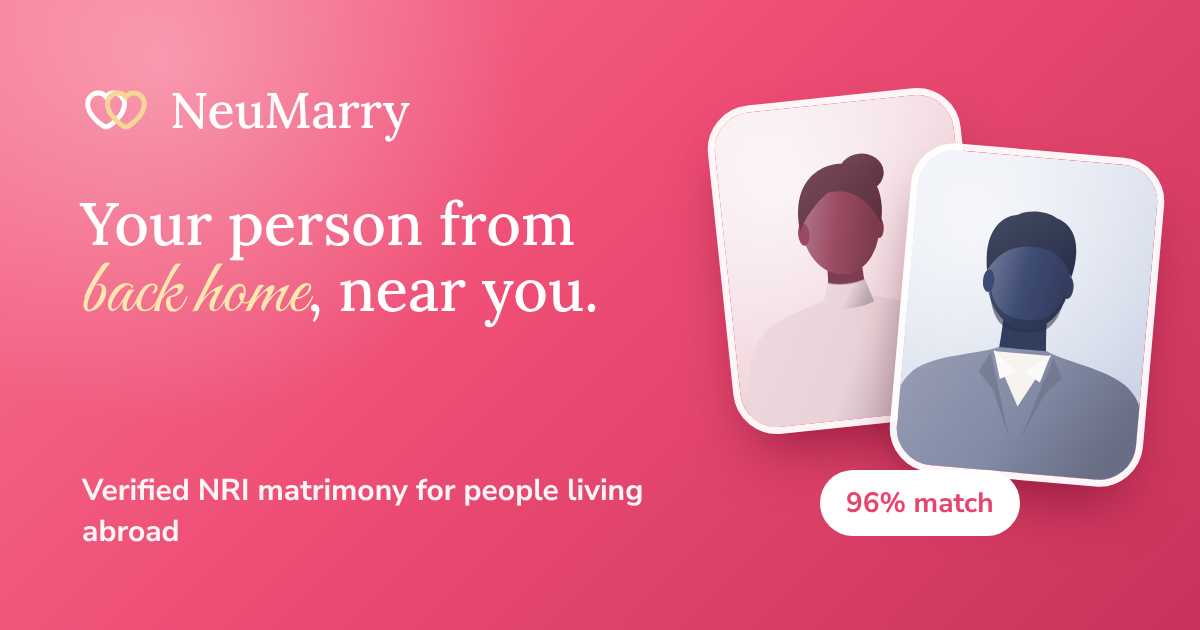
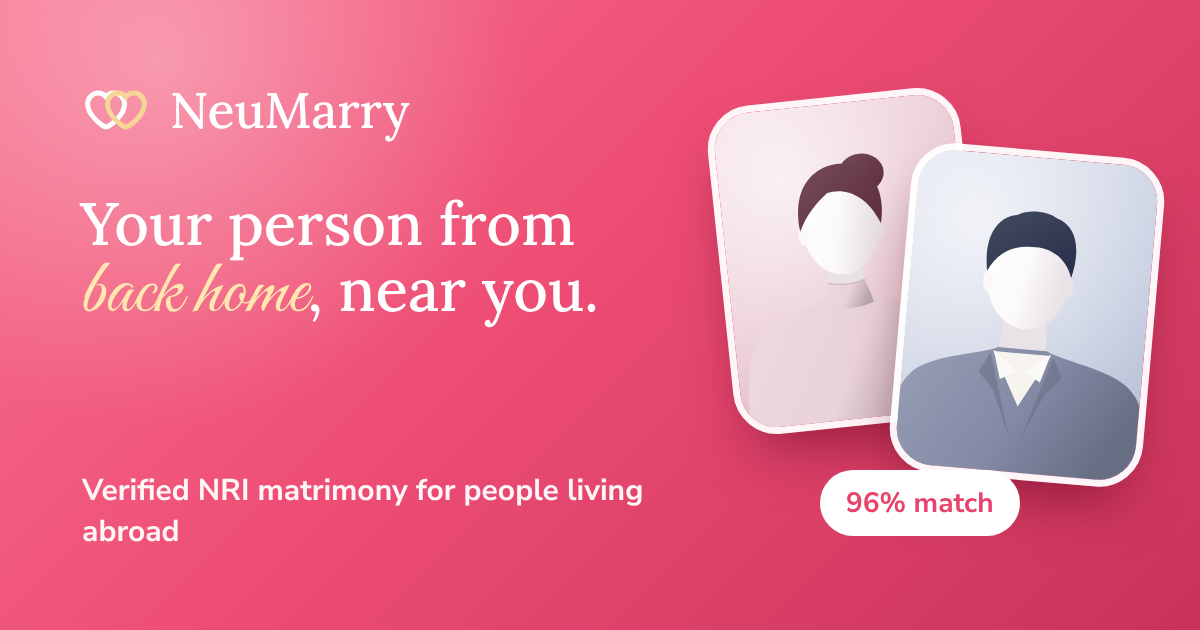
Same neutral portraits on the website, social image and web app; buttons first on the app welcome
Claude-Session: https://claude.ai/code/session_01SXngSMA9iuWztjfjkepz4k

Changed region(s): [[0.8017, 0.3921, 0.8942, 0.573], [0.6475, 0.3016, 0.74, 0.4524]]

diff --git a/app/js/app.js b/app/js/app.js
@@ -134,7 +134,7 @@ const QS=[
 const API=window.RM_API, CFG=window.RM_CONFIG;
 /* Editorial portraits: tonal head-and-shoulders silhouettes used as stand-ins where no
    member photo exists (welcome screen, store images). No faces, skin tones or regional
-   dress, so they read as adults from anywhere. portrait(seed, g, {tone}) where tone picks one of P_TONES. */
+   dress (every head is the same soft white), so they read as adults from anywhere. portrait(seed, g, {tone}) where tone picks one of P_TONES. */
 function rngP(seed){let a=seed>>>0;return function(){a|=0;a=a+0x6D2B79F5|0;let t=Math.imul(a^a>>>15,1|a);t=t+Math.imul(t^t>>>7,61|t)^t;return((t^t>>>14)>>>0)/4294967296}}
 function mixHex(a,b,t){const p=h=>[1,3,5].map(i=>parseInt(h.slice(i,i+2),16));const A=p(a),B=p(b);return '#'+A.map((v,i)=>Math.round(v+(B[i]-v)*t).toString(16).padStart(2,'0')).join('')}
 /* Each tone: background light, background deep, figure, clothing */
@@ -151,15 +151,18 @@ function portrait(seed,g,o){
   o=o||{};const key=seed+g+(o.tone!=null?'t'+o.tone:'');if(PCACHE.has(key))return PCACHE.get(key);
   const r=rngP(seed*9301+49297),pick=a=>a[Math.floor(r()*a.length)],F=g==='F';
   const T=P_TONES[o.tone!=null?o.tone:pick([0,0,1,1,5,5,2,3,4])],id='p'+String(key).replace(/\W/g,'');
-  const fig=T[2],figL=mixHex(fig,'#ffffff',.3),figD=mixHex(fig,'#000000',.18),hair=mixHex(fig,'#000000',.38);
+  /* Head, neck and ears are the same soft white for every portrait, man or woman, so no
+     figure ever reads as a skin colour. The tone only colours hair, clothes and backdrop. */
+  const fig=T[2],head='#FBF9FA',headL='#FFFFFF',headD='#E9E2E6',hair=mixHex(fig,'#000000',.38);
+  const figL=headL,figD=headD;
   const cloth=pick([T[3],mixHex(fig,'#ffffff',.35),mixHex(fig,'#000000',.1),'#F4F1EC']),clothL=mixHex(cloth,'#ffffff',.18),clothD=mixHex(cloth,'#000000',.2);
   const lean=Math.round((r()-.5)*6);           // slight head turn
   const hx=100+lean, hy=84, hrx=F?24:25.5, hry=F?31:32;
   const K=1.13, TR=`transform="translate(${hx} ${hy}) scale(${K}) translate(${-hx} ${-hy})"`;
   let s=`<svg viewBox="0 0 200 220" preserveAspectRatio="xMidYMid slice" xmlns="http://www.w3.org/2000/svg" aria-hidden="true"><defs>`
-   +`<linearGradient id="${id}b" x1="0" y1="0" x2=".8" y2="1"><stop offset="0" stop-color="${T[0]}"/><stop offset="1" stop-color="${T[1]}"/></linearGradient>`
+   +`<linearGradient id="${id}b" x1="0" y1="0" x2=".8" y2="1"><stop offset="0" stop-color="${mixHex(T[0],T[1],.45)}"/><stop offset="1" stop-color="${mixHex(T[1],fig,.12)}"/></linearGradient>`
    +`<radialGradient id="${id}g" cx=".3" cy=".22" r=".75"><stop offset="0" stop-color="#ffffff" stop-opacity=".7"/><stop offset="1" stop-color="#ffffff" stop-opacity="0"/></radialGradient>`
-   +`<linearGradient id="${id}f" x1="0" y1="0" x2="1" y2=".25"><stop offset="0" stop-color="${figL}"/><stop offset=".55" stop-color="${fig}"/><stop offset="1" stop-color="${figD}"/></linearGradient>`
+   +`<linearGradient id="${id}f" x1="0" y1="0" x2="1" y2=".25"><stop offset="0" stop-color="${figL}"/><stop offset=".55" stop-color="${head}"/><stop offset="1" stop-color="${figD}"/></linearGradient>`
    +`<linearGradient id="${id}c" x1="0" y1="0" x2="1" y2=".3"><stop offset="0" stop-color="${clothL}"/><stop offset=".6" stop-color="${cloth}"/><stop offset="1" stop-color="${clothD}"/></linearGradient>`
    +`<linearGradient id="${id}h" x1="0" y1="0" x2="1" y2="1"><stop offset="0" stop-color="${mixHex(hair,'#ffffff',.14)}"/><stop offset="1" stop-color="${hair}"/></linearGradient>`
    +`</defs>`;
@@ -195,7 +198,7 @@ function portrait(seed,g,o){
   s+=`<g ${TR}>`;
   s+=`<ellipse cx="${hx}" cy="${hy}" rx="${hrx}" ry="${hry}" fill="url(#${id}f)"/>`;
   // ears
-  s+=`<ellipse cx="${hx-hrx+1}" cy="${hy+4}" rx="3.5" ry="7" fill="${fig}"/><ellipse cx="${hx+hrx-1}" cy="${hy+4}" rx="3.5" ry="7" fill="${figD}"/>`;
+  s+=`<ellipse cx="${hx-hrx+1}" cy="${hy+4}" rx="3.5" ry="7" fill="${head}"/><ellipse cx="${hx+hrx-1}" cy="${hy+4}" rx="3.5" ry="7" fill="${figD}"/>`;
   // front hair
   if(F){
     if(hairStyle==='bob')s+=`<path d="M${hx-29} ${hy+30}C${hx-36} ${hy-14} ${hx-20} ${hy-40} ${hx+2} ${hy-38}C${hx+26} ${hy-38} ${hx+38} ${hy-14} ${hx+29} ${hy+30}C${hx+24} ${hy+12} ${hx+22} ${hy-6} ${hx+12} ${hy-16}C${hx-2} ${hy-6} ${hx-16} ${hy-8} ${hx-22} ${hy-4}C${hx-24} ${hy+8} ${hx-24} ${hy+18} ${hx-29} ${hy+30}z" fill="url(#${id}h)"/>`;
@@ -206,7 +209,7 @@ function portrait(seed,g,o){
     if(hairStyle==='side')s+=`<path d="M${hx-26} ${hy}C${hx-30} ${hy-32} ${hx-10} ${hy-38} ${hx+4} ${hy-37}C${hx+24} ${hy-36} ${hx+31} ${hy-22} ${hx+26} ${hy}C${hx+22} ${hy-12} ${hx+16} ${hy-18} ${hx+6} ${hy-22}C${hx-6} ${hy-16} ${hx-18} ${hy-14} ${hx-26} ${hy}z" fill="url(#${id}h)"/><path d="M${hx-8} ${hy-34}Q${hx-2} ${hy-26} ${hx-4} ${hy-21}" stroke="${mixHex(hair,'#fff',.2)}" stroke-width="1.2" fill="none"/>`;
     if(hairStyle==='textured')s+=`<path d="M${hx-26} ${hy-2}C${hx-30} ${hy-24} ${hx-22} ${hy-36} ${hx-10} ${hy-38}C${hx-4} ${hy-42} ${hx+8} ${hy-42} ${hx+14} ${hy-38}C${hx+28} ${hy-34} ${hx+30} ${hy-18} ${hx+26} ${hy-2}C${hx+22} ${hy-14} ${hx+12} ${hy-20} ${hx} ${hy-19}C${hx-12} ${hy-19} ${hx-21} ${hy-13} ${hx-26} ${hy-2}z" fill="url(#${id}h)"/>`;
     if(hairStyle==='swept')s+=`<path d="M${hx-26} ${hy}C${hx-30} ${hy-30} ${hx-14} ${hy-42} ${hx+6} ${hy-41}C${hx+26} ${hy-40} ${hx+32} ${hy-22} ${hx+26} ${hy}C${hx+22} ${hy-16} ${hx+12} ${hy-24} ${hx} ${hy-23}C${hx-12} ${hy-22} ${hx-20} ${hy-14} ${hx-26} ${hy}z" fill="url(#${id}h)"/>`;
-    if(r()<.4)s+=`<path d="M${hx-hrx+2} ${hy+6}C${hx-hrx+4} ${hy+30} ${hx-12} ${hy+hry+2} ${hx} ${hy+hry+2}C${hx+12} ${hy+hry+2} ${hx+hrx-4} ${hy+30} ${hx+hrx-2} ${hy+6}C${hx+hrx-6} ${hy+22} ${hx+12} ${hy+hry-6} ${hx} ${hy+hry-6}C${hx-12} ${hy+hry-6} ${hx-hrx+6} ${hy+22} ${hx-hrx+2} ${hy+6}z" fill="${hair}" opacity=".55"/>`;
+    if(r()<.4)r(); /* (no beard shading: it read as a darker face) keeps the same picks as before */
   }
   s+=`</g></svg>`;
   PCACHE.set(key,s);return s;
@@ -622,15 +625,16 @@ function renderWelcome(){
     </div>
     <h1>Your person from <em>back home</em> might live ten minutes away.</h1>
     <p class="lede">For everyone living away from the country they grew up in. Meet verified people who share your roots and your mindset, in your city, with your family by your side.</p>
+    <div class="cta"><button class="btn primary block" data-a="start">Create my profile</button>
+      <button class="btn ghost block" data-a="login">I already have an account</button></div>
+    <p class="note">By continuing you agree to our <button class="link" data-a="legal" data-k="terms">Terms</button> and <button class="link" data-a="legal" data-k="privacy">Privacy Policy</button>. 18+ only.</p>
     <ul class="usp">
       <li><span class="pi">${ic('users')}</span><span><b>Family Mixers</b><span>Hosted evenings in your city, dinner included. Bring your parents, meet in person.</span></span></li>
       <li><span class="pi">${ic('pin')}</span><span><b>Roots, city and mindset</b><span>Matched on where you come from, where you live and how you think.</span></span></li>
       <li><span class="pi">${ic('shield')}</span><span><b>Only real people</b><span>Every member is checked with a government ID and a live selfie.</span></span></li>
       <li><span class="pi">${ic('lock')}</span><span><b>Private by default</b><span>Photos stay hidden until you both say yes. Your number is never shown.</span></span></li>
     </ul>
-    <div class="cta"><button class="btn primary block" data-a="start">Create my profile</button>
-      <button class="btn ghost block" data-a="login">I already have an account</button></div>
-    <p class="note">By continuing you agree to our <button class="link" data-a="legal" data-k="terms">Terms</button> and <button class="link" data-a="legal" data-k="privacy">Privacy Policy</button>. 18+ only.</p>
+
   </div></div>`;
 }
 

diff --git a/index.html b/index.html
@@ -451,7 +451,7 @@ dialog form.card{border:0;box-shadow:none;background:transparent;padding:16px 22
 <script>
 /* Editorial portraits: tonal head-and-shoulders silhouettes used as stand-ins where no
    member photo exists (welcome screen, store images). No faces, skin tones or regional
-   dress, so they read as adults from anywhere. portrait(seed, g, {tone}) where tone picks one of P_TONES. */
+   dress (every head is the same soft white), so they read as adults from anywhere. portrait(seed, g, {tone}) where tone picks one of P_TONES. */
 function rngP(seed){let a=seed>>>0;return function(){a|=0;a=a+0x6D2B79F5|0;let t=Math.imul(a^a>>>15,1|a);t=t+Math.imul(t^t>>>7,61|t)^t;return((t^t>>>14)>>>0)/4294967296}}
 function mixHex(a,b,t){const p=h=>[1,3,5].map(i=>parseInt(h.slice(i,i+2),16));const A=p(a),B=p(b);return '#'+A.map((v,i)=>Math.round(v+(B[i]-v)*t).toString(16).padStart(2,'0')).join('')}
 /* Each tone: background light, background deep, figure, clothing */
@@ -468,15 +468,18 @@ function portrait(seed,g,o){
   o=o||{};const key=seed+g+(o.tone!=null?'t'+o.tone:'');if(PCACHE.has(key))return PCACHE.get(key);
   const r=rngP(seed*9301+49297),pick=a=>a[Math.floor(r()*a.length)],F=g==='F';
   const T=P_TONES[o.tone!=null?o.tone:pick([0,0,1,1,5,5,2,3,4])],id='p'+String(key).replace(/\W/g,'');
-  const fig=T[2],figL=mixHex(fig,'#ffffff',.3),figD=mixHex(fig,'#000000',.18),hair=mixHex(fig,'#000000',.38);
+  /* Head, neck and ears are the same soft white for every portrait, man or woman, so no
+     figure ever reads as a skin colour. The tone only colours hair, clothes and backdrop. */
+  const fig=T[2],head='#FBF9FA',headL='#FFFFFF',headD='#E9E2E6',hair=mixHex(fig,'#000000',.38);
+  const figL=headL,figD=headD;
   const cloth=pick([T[3],mixHex(fig,'#ffffff',.35),mixHex(fig,'#000000',.1),'#F4F1EC']),clothL=mixHex(cloth,'#ffffff',.18),clothD=mixHex(cloth,'#000000',.2);
   const lean=Math.round((r()-.5)*6);           // slight head turn
   const hx=100+lean, hy=84, hrx=F?24:25.5, hry=F?31:32;
   const K=1.13, TR=`transform="translate(${hx} ${hy}) scale(${K}) translate(${-hx} ${-hy})"`;
   let s=`<svg viewBox="0 0 200 220" preserveAspectRatio="xMidYMid slice" xmlns="http://www.w3.org/2000/svg" aria-hidden="true"><defs>`
-   +`<linearGradient id="${id}b" x1="0" y1="0" x2=".8" y2="1"><stop offset="0" stop-color="${T[0]}"/><stop offset="1" stop-color="${T[1]}"/></linearGradient>`
+   +`<linearGradient id="${id}b" x1="0" y1="0" x2=".8" y2="1"><stop offset="0" stop-color="${mixHex(T[0],T[1],.45)}"/><stop offset="1" stop-color="${mixHex(T[1],fig,.12)}"/></linearGradient>`
    +`<radialGradient id="${id}g" cx=".3" cy=".22" r=".75"><stop offset="0" stop-color="#ffffff" stop-opacity=".7"/><stop offset="1" stop-color="#ffffff" stop-opacity="0"/></radialGradient>`
-   +`<linearGradient id="${id}f" x1="0" y1="0" x2="1" y2=".25"><stop offset="0" stop-color="${figL}"/><stop offset=".55" stop-color="${fig}"/><stop offset="1" stop-color="${figD}"/></linearGradient>`
+   +`<linearGradient id="${id}f" x1="0" y1="0" x2="1" y2=".25"><stop offset="0" stop-color="${figL}"/><stop offset=".55" stop-color="${head}"/><stop offset="1" stop-color="${figD}"/></linearGradient>`
    +`<linearGradient id="${id}c" x1="0" y1="0" x2="1" y2=".3"><stop offset="0" stop-color="${clothL}"/><stop offset=".6" stop-color="${cloth}"/><stop offset="1" stop-color="${clothD}"/></linearGradient>`
    +`<linearGradient id="${id}h" x1="0" y1="0" x2="1" y2="1"><stop offset="0" stop-color="${mixHex(hair,'#ffffff',.14)}"/><stop offset="1" stop-color="${hair}"/></linearGradient>`
    +`</defs>`;
@@ -512,7 +515,7 @@ function portrait(seed,g,o){
   s+=`<g ${TR}>`;
   s+=`<ellipse cx="${hx}" cy="${hy}" rx="${hrx}" ry="${hry}" fill="url(#${id}f)"/>`;
   // ears
-  s+=`<ellipse cx="${hx-hrx+1}" cy="${hy+4}" rx="3.5" ry="7" fill="${fig}"/><ellipse cx="${hx+hrx-1}" cy="${hy+4}" rx="3.5" ry="7" fill="${figD}"/>`;
+  s+=`<ellipse cx="${hx-hrx+1}" cy="${hy+4}" rx="3.5" ry="7" fill="${head}"/><ellipse cx="${hx+hrx-1}" cy="${hy+4}" rx="3.5" ry="7" fill="${figD}"/>`;
   // front hair
   if(F){
     if(hairStyle==='bob')s+=`<path d="M${hx-29} ${hy+30}C${hx-36} ${hy-14} ${hx-20} ${hy-40} ${hx+2} ${hy-38}C${hx+26} ${hy-38} ${hx+38} ${hy-14} ${hx+29} ${hy+30}C${hx+24} ${hy+12} ${hx+22} ${hy-6} ${hx+12} ${hy-16}C${hx-2} ${hy-6} ${hx-16} ${hy-8} ${hx-22} ${hy-4}C${hx-24} ${hy+8} ${hx-24} ${hy+18} ${hx-29} ${hy+30}z" fill="url(#${id}h)"/>`;
@@ -523,7 +526,7 @@ function portrait(seed,g,o){
     if(hairStyle==='side')s+=`<path d="M${hx-26} ${hy}C${hx-30} ${hy-32} ${hx-10} ${hy-38} ${hx+4} ${hy-37}C${hx+24} ${hy-36} ${hx+31} ${hy-22} ${hx+26} ${hy}C${hx+22} ${hy-12} ${hx+16} ${hy-18} ${hx+6} ${hy-22}C${hx-6} ${hy-16} ${hx-18} ${hy-14} ${hx-26} ${hy}z" fill="url(#${id}h)"/><path d="M${hx-8} ${hy-34}Q${hx-2} ${hy-26} ${hx-4} ${hy-21}" stroke="${mixHex(hair,'#fff',.2)}" stroke-width="1.2" fill="none"/>`;
     if(hairStyle==='textured')s+=`<path d="M${hx-26} ${hy-2}C${hx-30} ${hy-24} ${hx-22} ${hy-36} ${hx-10} ${hy-38}C${hx-4} ${hy-42} ${hx+8} ${hy-42} ${hx+14} ${hy-38}C${hx+28} ${hy-34} ${hx+30} ${hy-18} ${hx+26} ${hy-2}C${hx+22} ${hy-14} ${hx+12} ${hy-20} ${hx} ${hy-19}C${hx-12} ${hy-19} ${hx-21} ${hy-13} ${hx-26} ${hy-2}z" fill="url(#${id}h)"/>`;
     if(hairStyle==='swept')s+=`<path d="M${hx-26} ${hy}C${hx-30} ${hy-30} ${hx-14} ${hy-42} ${hx+6} ${hy-41}C${hx+26} ${hy-40} ${hx+32} ${hy-22} ${hx+26} ${hy}C${hx+22} ${hy-16} ${hx+12} ${hy-24} ${hx} ${hy-23}C${hx-12} ${hy-22} ${hx-20} ${hy-14} ${hx-26} ${hy}z" fill="url(#${id}h)"/>`;
-    if(r()<.4)s+=`<path d="M${hx-hrx+2} ${hy+6}C${hx-hrx+4} ${hy+30} ${hx-12} ${hy+hry+2} ${hx} ${hy+hry+2}C${hx+12} ${hy+hry+2} ${hx+hrx-4} ${hy+30} ${hx+hrx-2} ${hy+6}C${hx+hrx-6} ${hy+22} ${hx+12} ${hy+hry-6} ${hx} ${hy+hry-6}C${hx-12} ${hy+hry-6} ${hx-hrx+6} ${hy+22} ${hx-hrx+2} ${hy+6}z" fill="${hair}" opacity=".55"/>`;
+    if(r()<.4)r(); /* (no beard shading: it read as a darker face) keeps the same picks as before */
   }
   s+=`</g></svg>`;
   PCACHE.set(key,s);return s;

diff --git a/src/portrait.js b/src/portrait.js
@@ -1,6 +1,6 @@
 /* Editorial portraits: tonal head-and-shoulders silhouettes used as stand-ins where no
    member photo exists (welcome screen, store images). No faces, skin tones or regional
-   dress, so they read as adults from anywhere. portrait(seed, g, {tone}) where tone picks one of P_TONES. */
+   dress (every head is the same soft white), so they read as adults from anywhere. portrait(seed, g, {tone}) where tone picks one of P_TONES. */
 function rngP(seed){let a=seed>>>0;return function(){a|=0;a=a+0x6D2B79F5|0;let t=Math.imul(a^a>>>15,1|a);t=t+Math.imul(t^t>>>7,61|t)^t;return((t^t>>>14)>>>0)/4294967296}}
 function mixHex(a,b,t){const p=h=>[1,3,5].map(i=>parseInt(h.slice(i,i+2),16));const A=p(a),B=p(b);return '#'+A.map((v,i)=>Math.round(v+(B[i]-v)*t).toString(16).padStart(2,'0')).join('')}
 /* Each tone: background light, background deep, figure, clothing */
@@ -17,15 +17,18 @@ function portrait(seed,g,o){
   o=o||{};const key=seed+g+(o.tone!=null?'t'+o.tone:'');if(PCACHE.has(key))return PCACHE.get(key);
   const r=rngP(seed*9301+49297),pick=a=>a[Math.floor(r()*a.length)],F=g==='F';
   const T=P_TONES[o.tone!=null?o.tone:pick([0,0,1,1,5,5,2,3,4])],id='p'+String(key).replace(/\W/g,'');
-  const fig=T[2],figL=mixHex(fig,'#ffffff',.3),figD=mixHex(fig,'#000000',.18),hair=mixHex(fig,'#000000',.38);
+  /* Head, neck and ears are the same soft white for every portrait, man or woman, so no
+     figure ever reads as a skin colour. The tone only colours hair, clothes and backdrop. */
+  const fig=T[2],head='#FBF9FA',headL='#FFFFFF',headD='#E9E2E6',hair=mixHex(fig,'#000000',.38);
+  const figL=headL,figD=headD;
   const cloth=pick([T[3],mixHex(fig,'#ffffff',.35),mixHex(fig,'#000000',.1),'#F4F1EC']),clothL=mixHex(cloth,'#ffffff',.18),clothD=mixHex(cloth,'#000000',.2);
   const lean=Math.round((r()-.5)*6);           // slight head turn
   const hx=100+lean, hy=84, hrx=F?24:25.5, hry=F?31:32;
   const K=1.13, TR=`transform="translate(${hx} ${hy}) scale(${K}) translate(${-hx} ${-hy})"`;
   let s=`<svg viewBox="0 0 200 220" preserveAspectRatio="xMidYMid slice" xmlns="http://www.w3.org/2000/svg" aria-hidden="true"><defs>`
-   +`<linearGradient id="${id}b" x1="0" y1="0" x2=".8" y2="1"><stop offset="0" stop-color="${T[0]}"/><stop offset="1" stop-color="${T[1]}"/></linearGradient>`
+   +`<linearGradient id="${id}b" x1="0" y1="0" x2=".8" y2="1"><stop offset="0" stop-color="${mixHex(T[0],T[1],.45)}"/><stop offset="1" stop-color="${mixHex(T[1],fig,.12)}"/></linearGradient>`
    +`<radialGradient id="${id}g" cx=".3" cy=".22" r=".75"><stop offset="0" stop-color="#ffffff" stop-opacity=".7"/><stop offset="1" stop-color="#ffffff" stop-opacity="0"/></radialGradient>`
-   +`<linearGradient id="${id}f" x1="0" y1="0" x2="1" y2=".25"><stop offset="0" stop-color="${figL}"/><stop offset=".55" stop-color="${fig}"/><stop offset="1" stop-color="${figD}"/></linearGradient>`
+   +`<linearGradient id="${id}f" x1="0" y1="0" x2="1" y2=".25"><stop offset="0" stop-color="${figL}"/><stop offset=".55" stop-color="${head}"/><stop offset="1" stop-color="${figD}"/></linearGradient>`
    +`<linearGradient id="${id}c" x1="0" y1="0" x2="1" y2=".3"><stop offset="0" stop-color="${clothL}"/><stop offset=".6" stop-color="${cloth}"/><stop offset="1" stop-color="${clothD}"/></linearGradient>`
    +`<linearGradient id="${id}h" x1="0" y1="0" x2="1" y2="1"><stop offset="0" stop-color="${mixHex(hair,'#ffffff',.14)}"/><stop offset="1" stop-color="${hair}"/></linearGradient>`
    +`</defs>`;
@@ -61,7 +64,7 @@ function portrait(seed,g,o){
   s+=`<g ${TR}>`;
   s+=`<ellipse cx="${hx}" cy="${hy}" rx="${hrx}" ry="${hry}" fill="url(#${id}f)"/>`;
   // ears
-  s+=`<ellipse cx="${hx-hrx+1}" cy="${hy+4}" rx="3.5" ry="7" fill="${fig}"/><ellipse cx="${hx+hrx-1}" cy="${hy+4}" rx="3.5" ry="7" fill="${figD}"/>`;
+  s+=`<ellipse cx="${hx-hrx+1}" cy="${hy+4}" rx="3.5" ry="7" fill="${head}"/><ellipse cx="${hx+hrx-1}" cy="${hy+4}" rx="3.5" ry="7" fill="${figD}"/>`;
   // front hair
   if(F){
     if(hairStyle==='bob')s+=`<path d="M${hx-29} ${hy+30}C${hx-36} ${hy-14} ${hx-20} ${hy-40} ${hx+2} ${hy-38}C${hx+26} ${hy-38} ${hx+38} ${hy-14} ${hx+29} ${hy+30}C${hx+24} ${hy+12} ${hx+22} ${hy-6} ${hx+12} ${hy-16}C${hx-2} ${hy-6} ${hx-16} ${hy-8} ${hx-22} ${hy-4}C${hx-24} ${hy+8} ${hx-24} ${hy+18} ${hx-29} ${hy+30}z" fill="url(#${id}h)"/>`;
@@ -72,7 +75,7 @@ function portrait(seed,g,o){
     if(hairStyle==='side')s+=`<path d="M${hx-26} ${hy}C${hx-30} ${hy-32} ${hx-10} ${hy-38} ${hx+4} ${hy-37}C${hx+24} ${hy-36} ${hx+31} ${hy-22} ${hx+26} ${hy}C${hx+22} ${hy-12} ${hx+16} ${hy-18} ${hx+6} ${hy-22}C${hx-6} ${hy-16} ${hx-18} ${hy-14} ${hx-26} ${hy}z" fill="url(#${id}h)"/><path d="M${hx-8} ${hy-34}Q${hx-2} ${hy-26} ${hx-4} ${hy-21}" stroke="${mixHex(hair,'#fff',.2)}" stroke-width="1.2" fill="none"/>`;
     if(hairStyle==='textured')s+=`<path d="M${hx-26} ${hy-2}C${hx-30} ${hy-24} ${hx-22} ${hy-36} ${hx-10} ${hy-38}C${hx-4} ${hy-42} ${hx+8} ${hy-42} ${hx+14} ${hy-38}C${hx+28} ${hy-34} ${hx+30} ${hy-18} ${hx+26} ${hy-2}C${hx+22} ${hy-14} ${hx+12} ${hy-20} ${hx} ${hy-19}C${hx-12} ${hy-19} ${hx-21} ${hy-13} ${hx-26} ${hy-2}z" fill="url(#${id}h)"/>`;
     if(hairStyle==='swept')s+=`<path d="M${hx-26} ${hy}C${hx-30} ${hy-30} ${hx-14} ${hy-42} ${hx+6} ${hy-41}C${hx+26} ${hy-40} ${hx+32} ${hy-22} ${hx+26} ${hy}C${hx+22} ${hy-16} ${hx+12} ${hy-24} ${hx} ${hy-23}C${hx-12} ${hy-22} ${hx-20} ${hy-14} ${hx-26} ${hy}z" fill="url(#${id}h)"/>`;
-    if(r()<.4)s+=`<path d="M${hx-hrx+2} ${hy+6}C${hx-hrx+4} ${hy+30} ${hx-12} ${hy+hry+2} ${hx} ${hy+hry+2}C${hx+12} ${hy+hry+2} ${hx+hrx-4} ${hy+30} ${hx+hrx-2} ${hy+6}C${hx+hrx-6} ${hy+22} ${hx+12} ${hy+hry-6} ${hx} ${hy+hry-6}C${hx-12} ${hy+hry-6} ${hx-hrx+6} ${hy+22} ${hx-hrx+2} ${hy+6}z" fill="${hair}" opacity=".55"/>`;
+    if(r()<.4)r(); /* (no beard shading: it read as a darker face) keeps the same picks as before */
   }
   s+=`</g></svg>`;
   PCACHE.set(key,s);return s;
